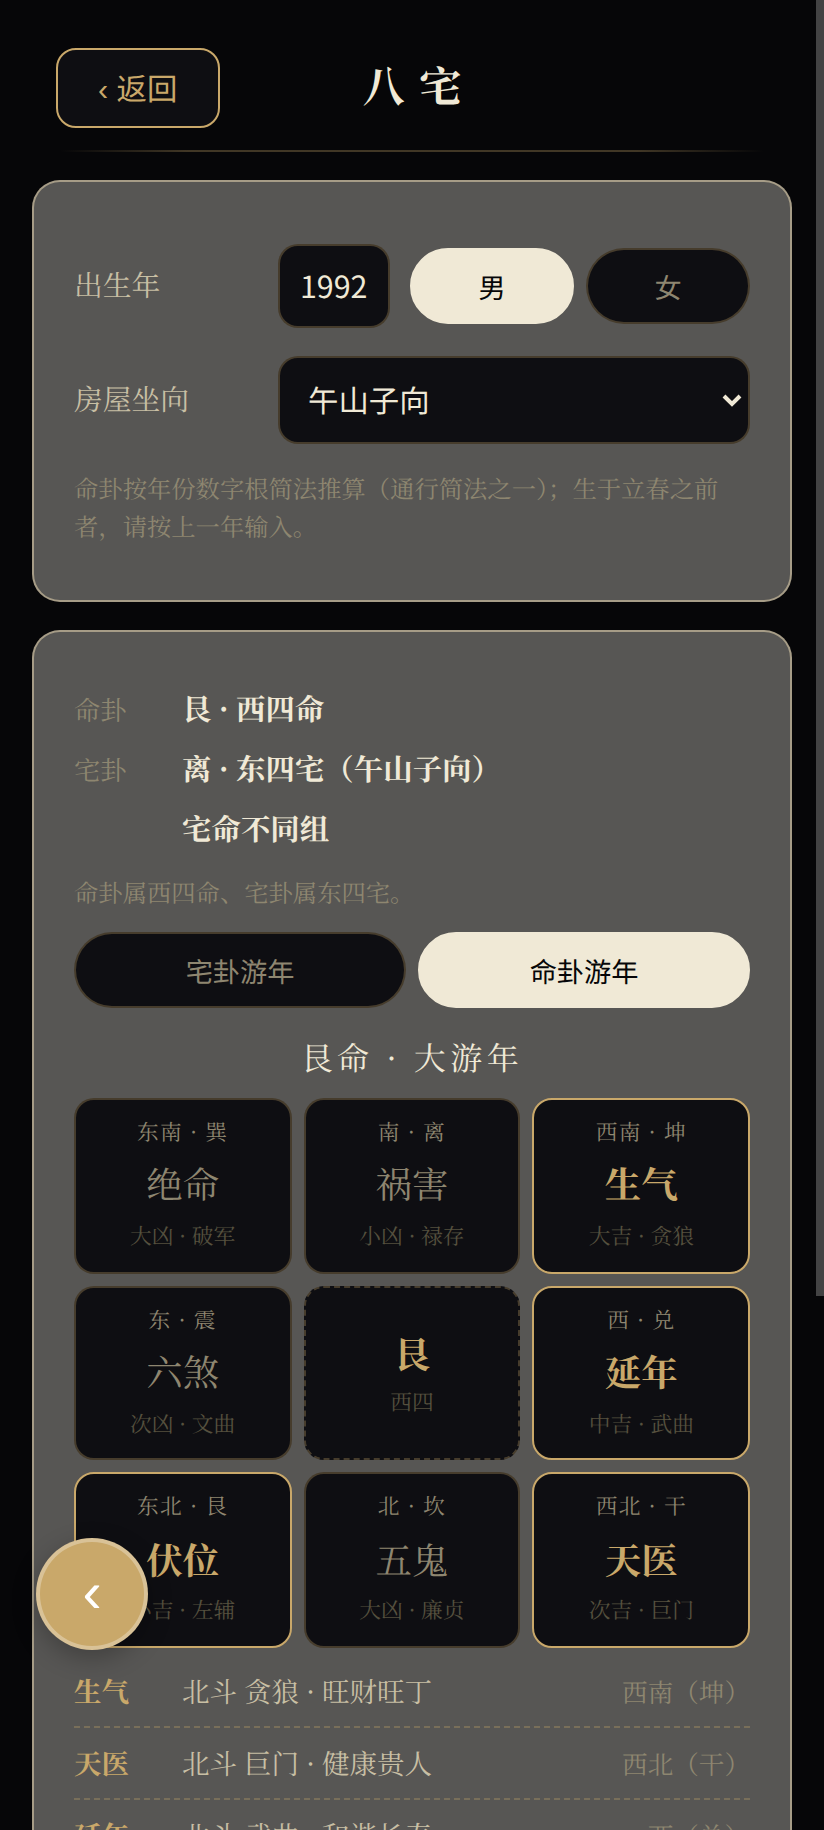
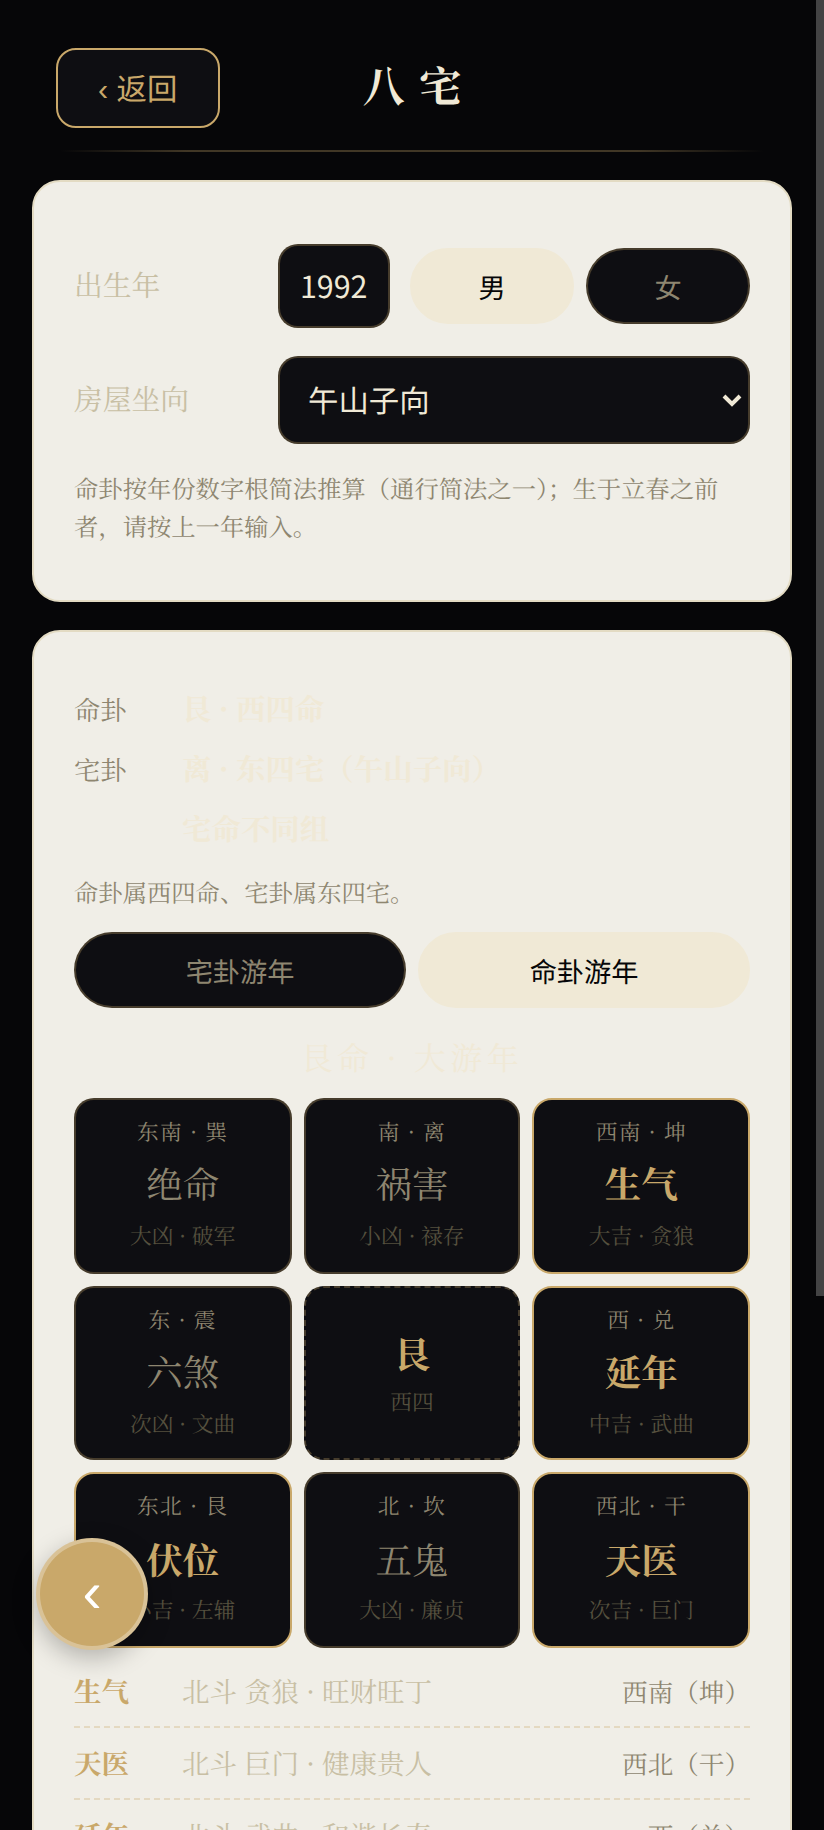
release: SW v154 四件套 bump＋SW 预缓存补 soul-fengshui/fengshui2

diff --git a/www/sw.js b/www/sw.js
@@ -1,5 +1,5 @@
 /* 戊日不上香 · Service Worker（离线缓存） */
-const CACHE = 'wuri-v153-20261026-v230';
+const CACHE = 'wuri-v154-20261026-v230';
 /* 冥想资产专用缓存（场景图 10＋环境音/磬 11，约 28MB）：安装期整包预缓存，
  * 播放/显示一律本地出（用户 2026-10-25 定调「下载 App 时就该下载下来」）。
  * 与主缓存分开：单件失败不拖垮整版 SW 更新，缺件运行时回落网络现拉。 */
@@ -63,7 +63,9 @@ const ASSETS = [
   './js/sky-chart.js',
   './js/sky-ar.js',
   './js/fengshui-data.js',
+  './js/vendor/soul-fengshui.js',
   './js/fengshui.js',
+  './js/fengshui2.js',
   './js/i18n.js',
   './js/iztro.min.js',
   './js/jingwen.js',

diff --git a/www/index.html b/www/index.html
@@ -12,7 +12,7 @@
 <link rel="preload" as="image" href="img/logo-96.png">
 <title>戊日不上香</title>
 <script>try{var _c=JSON.parse(localStorage.getItem('wuri_cfg_v1')||'{}');var _t=_c.theme||'auto';var _n=_t==='night'||(_t==='auto'&&window.matchMedia&&matchMedia('(prefers-color-scheme: dark)').matches);document.documentElement.setAttribute('data-theme',_n?'night':'day');}catch(e){document.documentElement.setAttribute('data-theme','day');}</script>
-<link rel="stylesheet" href="css/style.css?v=153">
+<link rel="stylesheet" href="css/style.css?v=154">
 <link rel="stylesheet" href="css/qimen.css?v=78">
 <link rel="stylesheet" href="css/meditation.css?v=71">
 </head>
